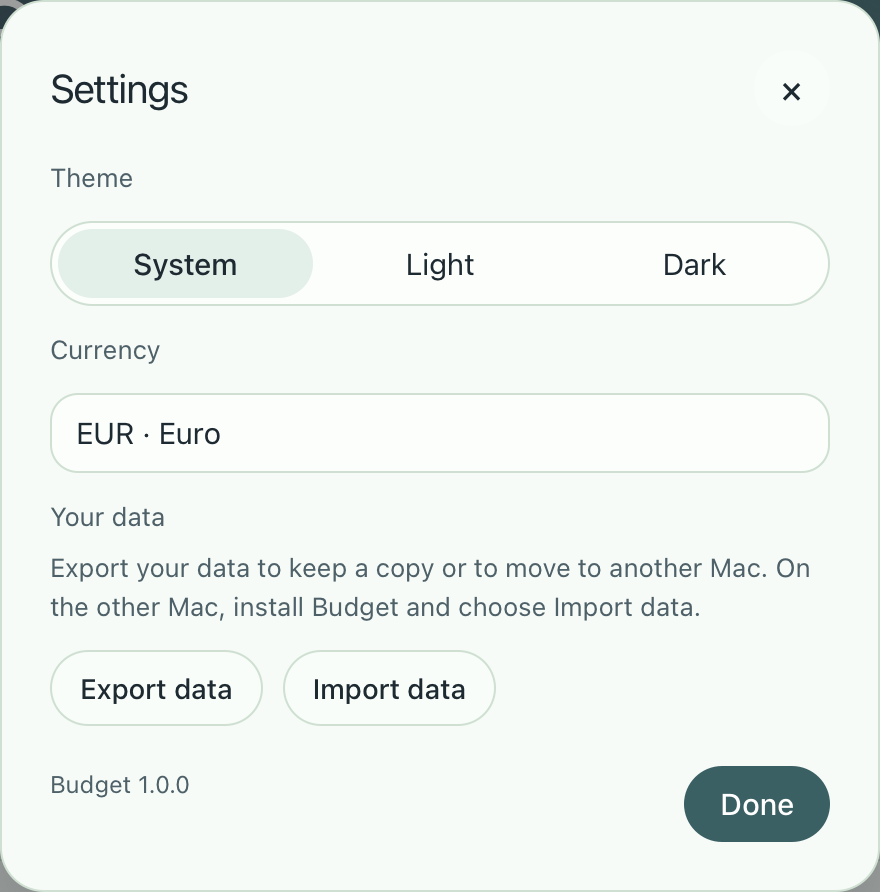
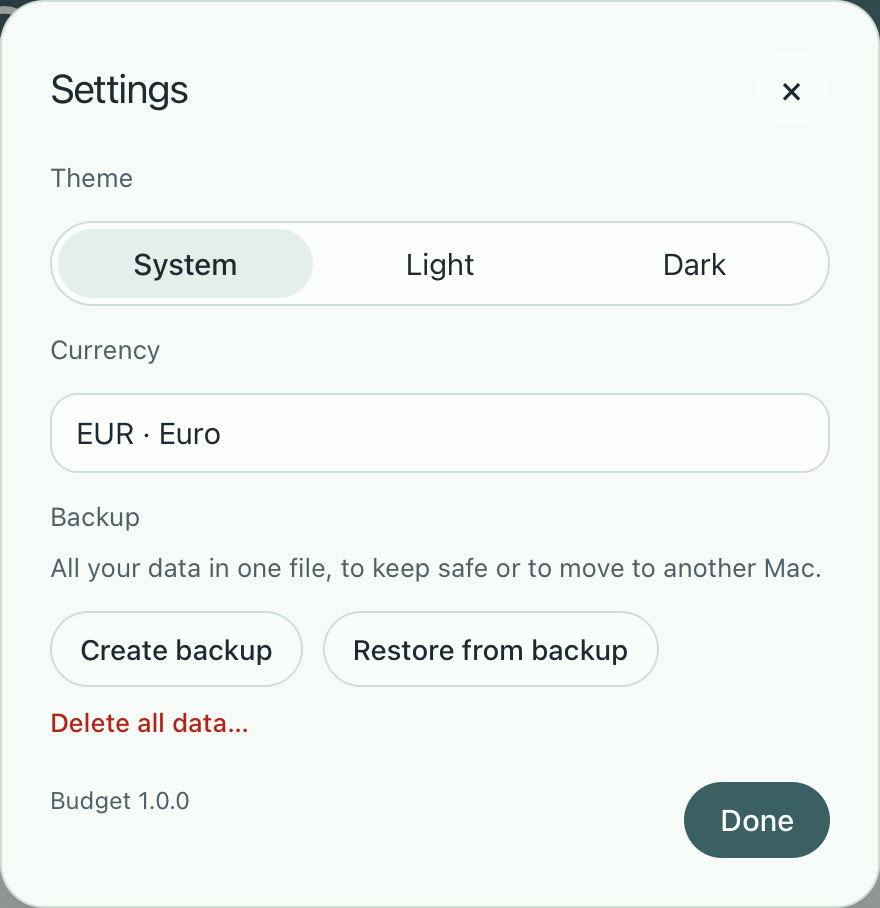
Document backups, restoring and deleting data, and refresh the screenshots

diff --git a/packaging/make_screenshots.py b/packaging/make_screenshots.py
@@ -129,8 +129,22 @@ def capture(url):
         page.wait_for_timeout(300)
         page.evaluate("document.activeElement.blur()")
         page.locator("#settings").screenshot(path=OUT / "appearance.png")
+        page.click("#import-btn")
+        page.wait_for_selector("#restore-dialog[open]")
+        page.mouse.move(0, 0)
+        page.wait_for_timeout(300)
+        page.locator("#restore-dialog").screenshot(path=OUT / "restore.png")
         page.context.close()
         browser.close()
+
+
+def make_daily_backups():
+    """A few automatic backups, as if Budget was used on the last days."""
+    import shutil
+    db.daily_backup()
+    today = next(db.BACKUP_DIR.glob("budget-*.db"))
+    for days in (1, 2, 4):
+        shutil.copy(today, db.BACKUP_DIR / f"budget-{date.today() - timedelta(days=days)}.db")
 
 
 def bank_export():
@@ -160,6 +174,7 @@ def main():
         db.use_data_dir(Path(folder))
         db.migrate()
         seed()
+        make_daily_backups()
         outlook.READY_DAYS = 31  # show "ready for next month?" whatever today's date is
         server = make_server(0)
         threading.Thread(target=server.serve_forever, daemon=True).start()

diff --git a/README.md b/README.md
@@ -102,13 +102,17 @@ Add your expected income and planned costs, like a holiday or a new laptop, and 
 
 ### Make it yours
 
-<img src="docs/screenshots/appearance.png" width="420" alt="Settings with theme, currency, and exporting or importing your data">
+<img src="docs/screenshots/appearance.png" width="420" alt="Settings with theme, currency and backups">
 
 Follow your Mac's light or dark mode, or choose one yourself, and pick your currency from every currency in the world.
 
-### Take your data with you
+### Backups and moving to a new Mac
 
-Export everything to a single file, to keep your own copy or to move to a new Mac. Importing is made to be safe: Budget checks the file first, shows what's in it and what it replaces, and keeps a safety copy so you can undo the import.
+<img src="docs/screenshots/restore.png" width="420" alt="Restoring a backup: a file you created, or one of the automatic daily backups">
+
+**Create backup** saves all your data in one file, to keep safe or to move to a new Mac. Budget also keeps an automatic backup of each day you use it, the last 14. **Restore from backup** brings back either one: it checks the file first, shows what's in it and what it replaces, and offers to create a backup of your current data before it does.
+
+**Delete all data** empties Budget, for a fresh start. It only goes ahead after you create a backup, or tick that you don't need one, and it can't be undone.
 
 ## Installing
 
@@ -123,15 +127,15 @@ Budget currently runs on Macs with Apple Silicon.
 
 ## Your data
 
-Everything stays on your Mac. Budget makes a backup automatically once a day and keeps the last 14 days, in `~/Library/Application Support/nl.hendrikdemir.budget/backups`.
+Everything stays on your Mac, in `~/Library/Application Support/nl.hendrikdemir.budget`. Budget makes a backup automatically on each day you use it and keeps the last 14, in the `backups` folder there. You can restore them from **Settings → Restore from backup**. They're on the same Mac, so for a copy elsewhere, use **Create backup** or Time Machine.
 
 **Moving to a new Mac**
 
-1. On your old Mac, open Budget, click the gear icon to open **Settings**, and choose **Export data**. Save the file.
+1. On your old Mac, open Budget, click the gear icon to open **Settings**, and choose **Create backup**. Save the file.
 2. Move the file to your new Mac, for example with AirDrop.
-3. Install Budget on your new Mac, open **Settings**, and choose **Import data**.
+3. Install Budget on your new Mac, open **Settings**, choose **Restore from backup**, and then **Choose file…**.
 
-The export file holds all your financial data and isn't encrypted, so keep it somewhere safe and delete it when you no longer need it.
+The backup file holds all your financial data and isn't encrypted, so keep it somewhere safe and delete it when you no longer need it.
 
 ## For developers
 

diff --git a/CLAUDE.md b/CLAUDE.md
@@ -31,7 +31,8 @@ pywebview and PyInstaller are used for the Mac app. There is no web build step.
 - `app/outlook.py`: `month_outlook()` ("ready for next month?") and `projection()`.
 - `app/bank_import.py`: reading bank exports (CSV) for review. One reader per bank in
   `READERS` (ING for now); `preview()` adds payee, budget and duplicate suggestions.
-- `app/backup.py`: export and import. Bump nothing here for schema changes: a backup's version is
+- `app/backup.py`: creating and restoring backups (a file, or the automatic daily ones from
+  `db.daily_backup()`), and deleting all data. Bump nothing here for schema changes: a backup's version is
   its `user_version`, and imports run the normal migrations.
 - `app/api.py`: request handlers; validation helpers are in `app/money.py`.
 - `static/js/`: ES modules. `main.js` starts the page; `overview.js`, `transaction.js`,
